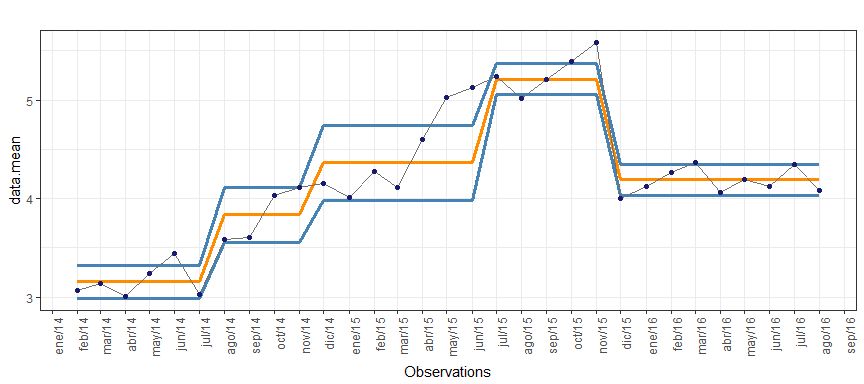
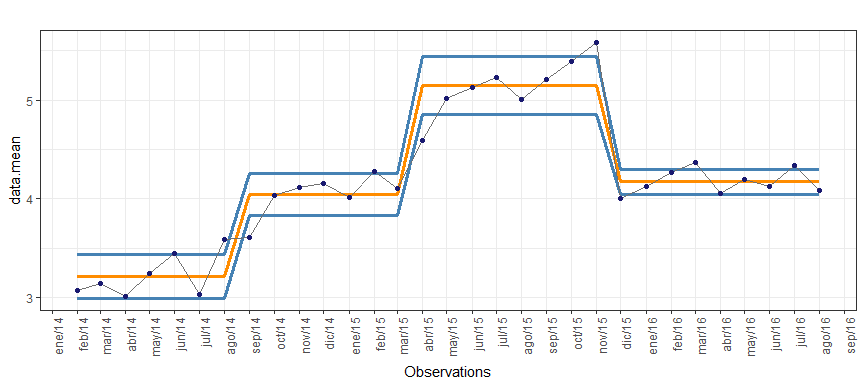
updated according to branch

Changed region(s): [[0.0938, 0.125, 0.9688, 0.7812]]

diff --git a/README.md b/README.md
@@ -67,12 +67,12 @@ If we inspect the object we may find it's a list consisting in the following ele
 lapply(control.chart.data, head)
 #> $data
 #>      t.dates t.values data.mean  data.ll  data.ul
-#> 1 2014-02-01 3.071129  3.156051 2.991715 3.320387
-#> 2 2014-03-01 3.140564  3.156051 2.991715 3.320387
-#> 3 2014-04-01 3.008430  3.156051 2.991715 3.320387
-#> 4 2014-05-01 3.243547  3.156051 2.991715 3.320387
-#> 5 2014-06-01 3.442773  3.156051 2.991715 3.320387
-#> 6 2014-07-01 3.029862  3.156051 2.991715 3.320387
+#> 1 2014-02-01 3.071129  3.217276 2.996493 3.438059
+#> 2 2014-03-01 3.140564  3.217276 2.996493 3.438059
+#> 3 2014-04-01 3.008430  3.217276 2.996493 3.438059
+#> 4 2014-05-01 3.243547  3.217276 2.996493 3.438059
+#> 5 2014-06-01 3.442773  3.217276 2.996493 3.438059
+#> 6 2014-07-01 3.029862  3.217276 2.996493 3.438059
 #> 
 #> $dates.name
 #> [1] "t.dates"
@@ -81,7 +81,7 @@ lapply(control.chart.data, head)
 #> [1] "t.values"
 #> 
 #> $systems_count
-#> [1] 5
+#> [1] 4
 #> 
 #> $missing_values
 #> [1] NA
@@ -96,8 +96,8 @@ lapply(control.chart.data, head)
 #> [1] "Next system expected to break negative"
 #> 
 #> $next_break_values
-#>  Continous points vs mean:  Continuous points vs 2 SD:  
-#>                           5                           4
+#> Continous points vs mean:  
+#>                          6
 ```
 
 To extract the data frame, we can access it from the list in the following way:
